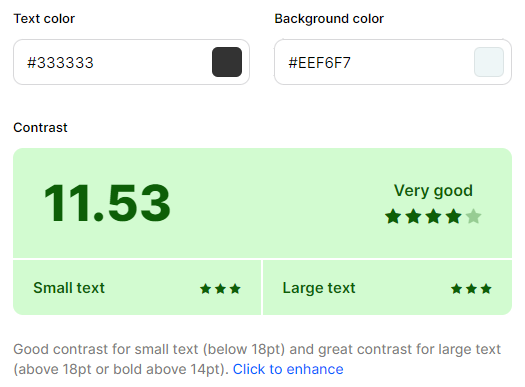
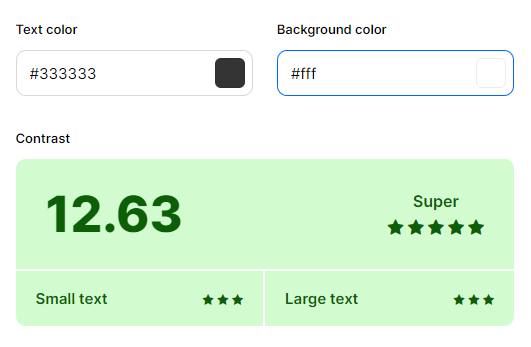
Fix accessibility: missing form label on search bar

diff --git a/templates/includes/header.html b/templates/includes/header.html
@@ -27,13 +27,14 @@
                             <form method="GET" action="{% url 'tutorials_list' %}" class="form-inline my-2 my-lg-0">
                                 <!-- width 100, input group from bootstrap contains fontawesome search icon -->
                                 <div class="input-group w-100">
+                                    <label for="search-tutorials" class="sr-only">Search Tutorials</label>
                                     <!-- q for query -->
                                     <input class="form-control border border-black rounded-0" type="text" name="q"
                                         placeholder="Search Tutorials">
                                     <div class="input-group-append">
-                                        <button class="form-control btn border border-black rounded-0" type="submit">
+                                        <button id="search-tutorials" class="form-control btn border border-black rounded-0" type="submit">
                                             <span class="icon">
-                                                <i class="fas fa-search"></i>
+                                                <i class="fas fa-search" aria-hidden="true"></i>
                                             </span>
                                         </button>
                                     </div>

diff --git a/home/templates/home/index.html b/home/templates/home/index.html
@@ -31,12 +31,11 @@
                     Welcome to <br> Shaping Sustainable Surf!
                 </h1>
                 <div class="my-5">
-                    <h4>
+                    <h2>
                         <!-- Tutorials-button custom, rest bootstrap -->
                         <a href="{% url 'tutorials_list' %}" class="browse-tutorials-button btn btn-lg rounded-0 text-uppercase py-3">Browse Tutorials Now</a>
-                    </h4>
+                    </h2>
                 </div>
-
             </div>
         </div>
     </div>

diff --git a/static/css/base.css b/static/css/base.css
@@ -84,10 +84,6 @@ header {
     height: auto;
 }
 
-.mobile-nav-bg {
-    background: var(--background-color);
-}
-
 /* Main ---------------------------------------------------------------*/
 
 .browse-tutorials-button {

diff --git a/README.md b/README.md
@@ -147,9 +147,9 @@ The website's colors are inspired by the ocean and the beach. The main color of 
 
 A complimenting colorpalette with the website logo's color was created by [Muzli Colors](https://colors.muz.li/palette/57a7b3/3d757d/b35794/7d3d67/b3a357). To keep the overall layout sleek and avoiding visual clutter, the complementing colors were mainly used as accents in box-shadows and for pseudo-class hover effect.
 
-The font color is a warm tone of black and background color is a lighter shade of the main color, which make a very good match for accessability, readability and contrast while being easy on the eye.
+The font color is a warm tone of black and background color is white, which make a very good match for accessability, readability and contrast while being easy on the eye.
 
-[Coolors Color Contrast Checker](https://coolors.co/contrast-checker/333333-eef6f7) score:
+[Coolors Color Contrast Checker](https://coolors.co/contrast-checker/333333-ffffff) score:
 
 ![contrast checker](/documentation/color-contrast.png)
 

diff --git a/TESTING.md b/TESTING.md
@@ -211,12 +211,15 @@ Accessibility testing was conducted to ensure the website is usable by people wi
 [Results to be added]
 
 ### WAVE Web Accessibility Evaluation Tool
+
 The [Wave WebAIM Validator](https://wave.webaim.org/) was used to validate web accessibility on the deployed website.
 [Results to be added]
 
 ### Coolors contrast checker
-[Coolors Color Contrast Checker]( https://coolors.co/contrast-checker/112a46-acc8e5) was used to validate color contrast for web accessibility in terms of readability.
-[Results to be added]
+
+[Coolors Color Contrast Checker](https://coolors.co/contrast-checker/333333-ffffff) was used to validate color contrast for web accessibility in terms of readability.
+
+![Color contrast test](/documentation/color-contrast.png)
 
 ## Performance Testing
 
